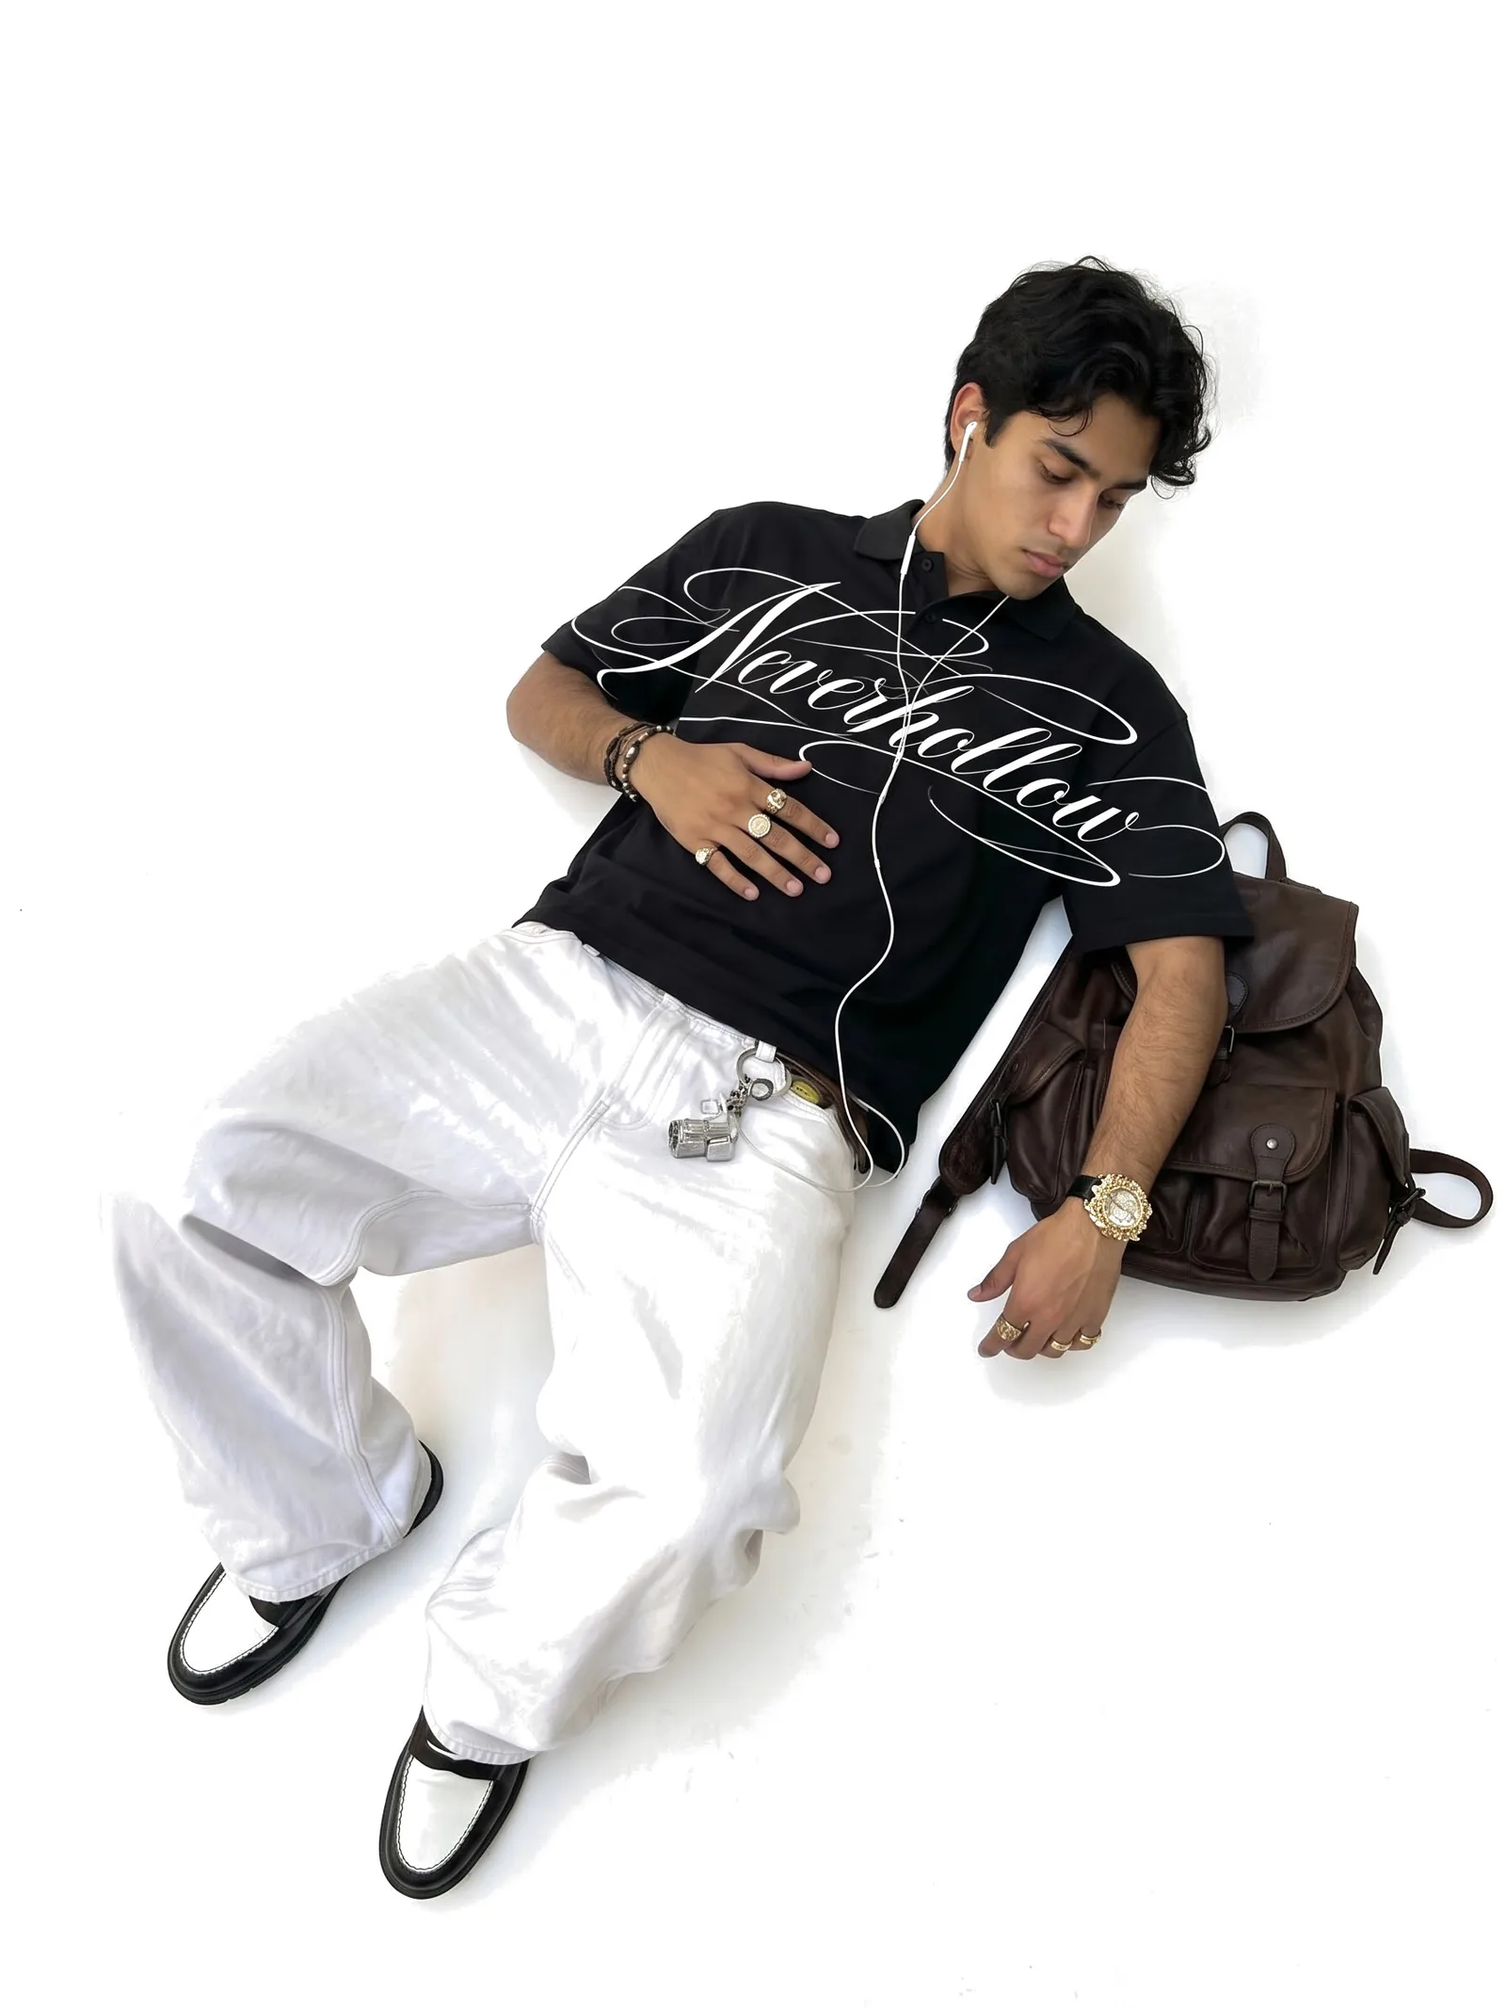
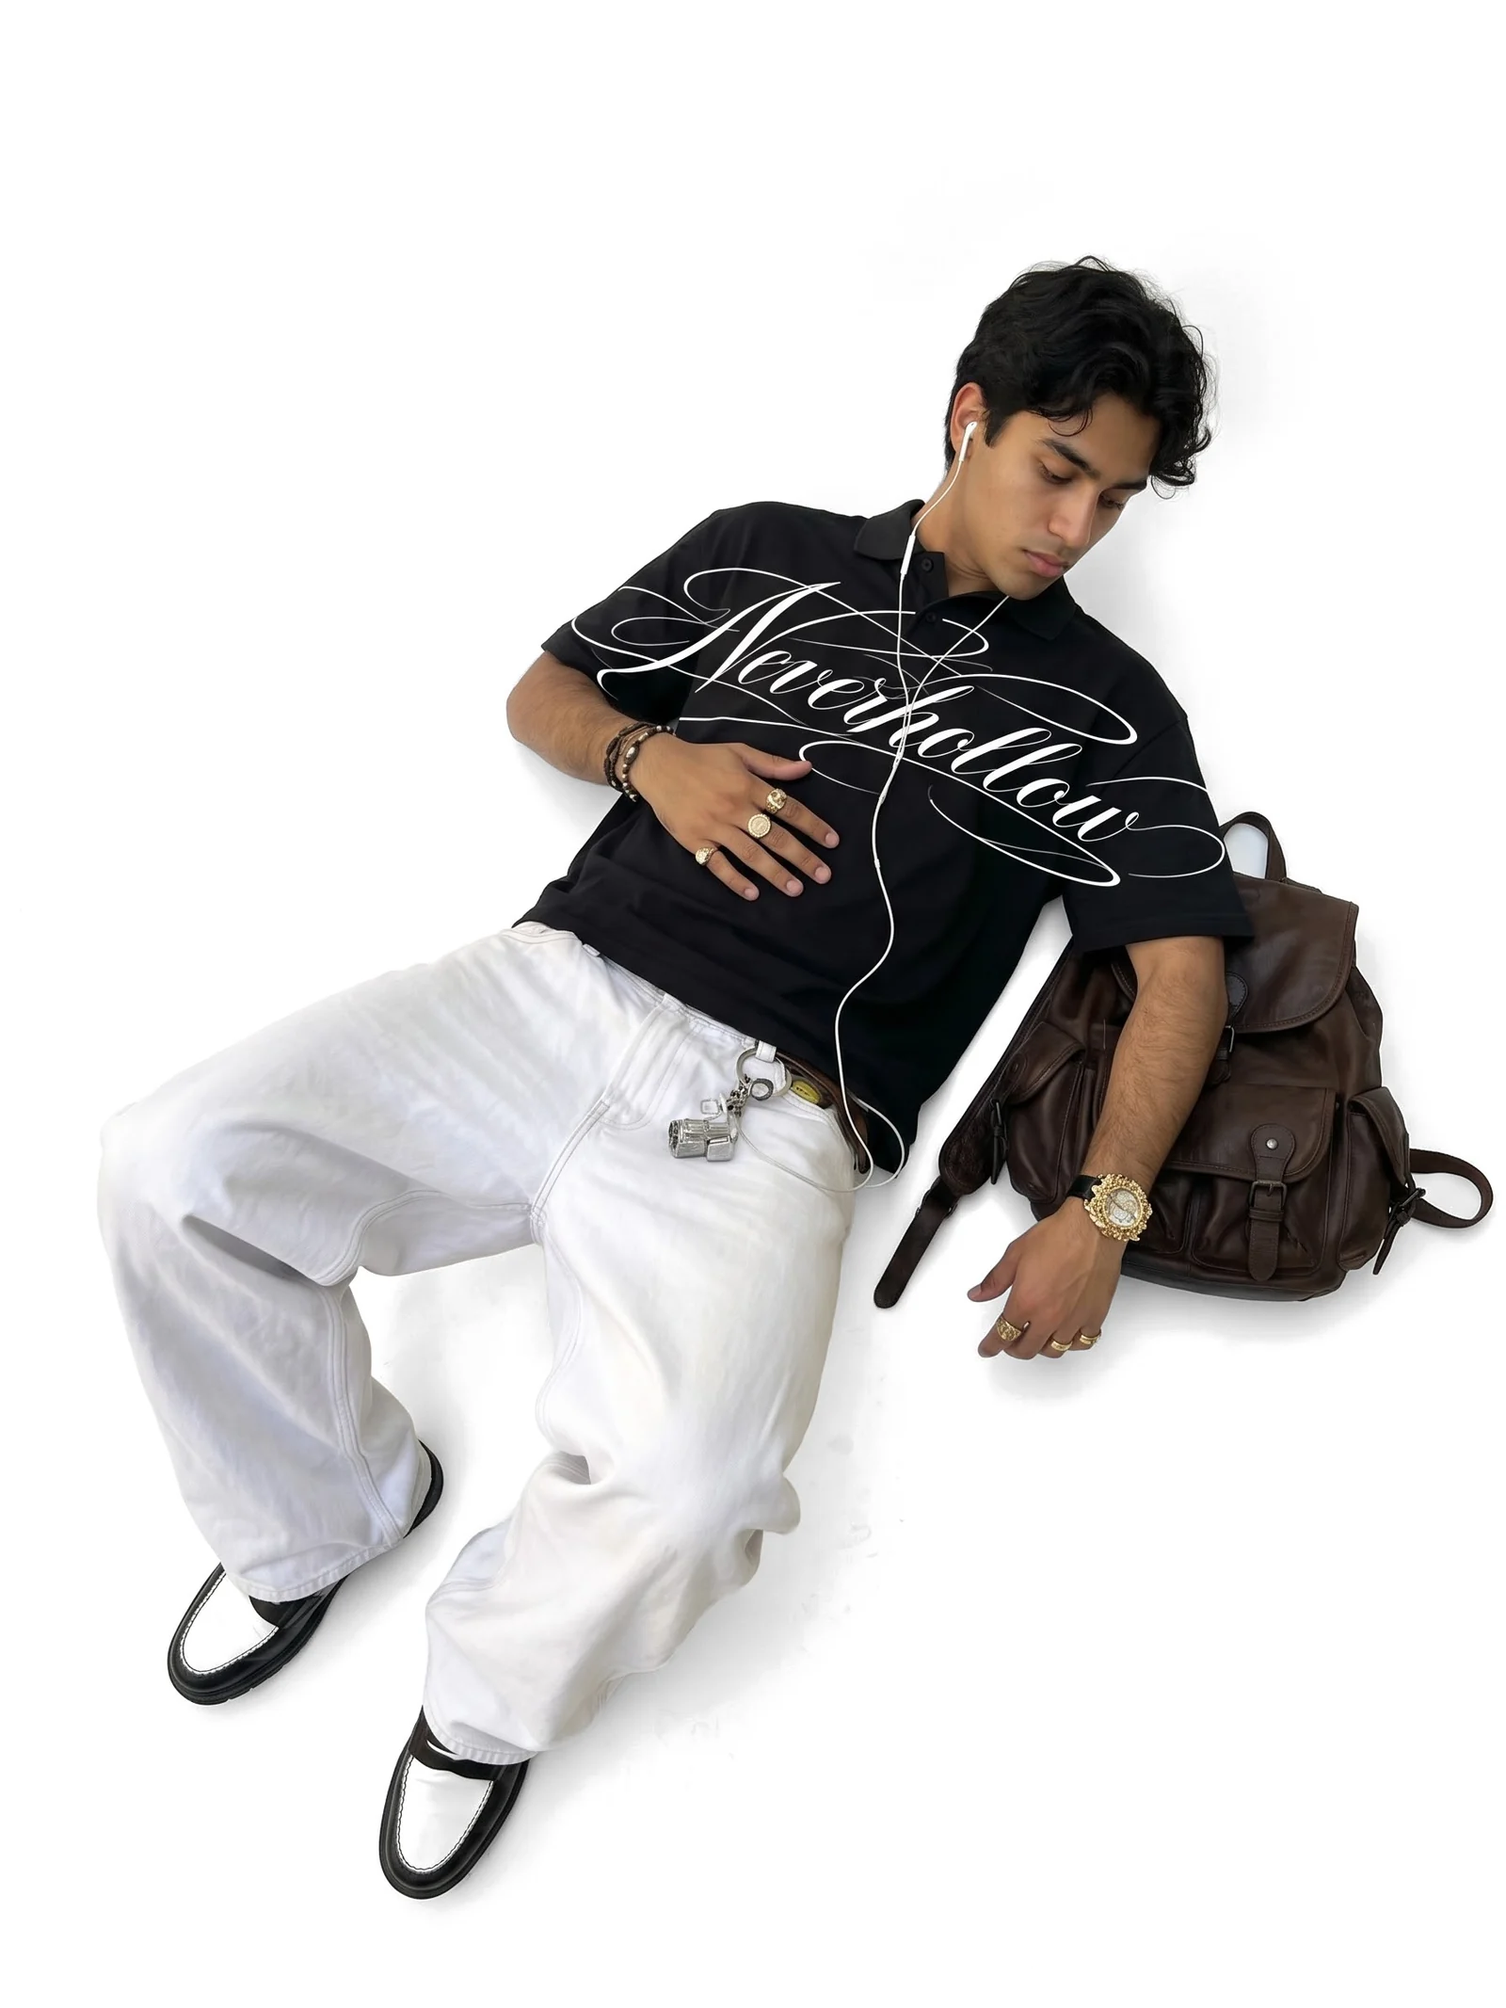
True-colour photos on white with hairline frames; Material and Men's/Women's sizing with fit note; strongest cover (Vesper, re-graded); cleaner cards; Chapel Shorts in the record
Claude-Session: https://claude.ai/code/session_01QScyZqKeqX7ZnCnb2t4eEm

diff --git a/shopify/theme/assets/base.css b/shopify/theme/assets/base.css
@@ -1,12 +1,13 @@
 /* NEVERHOLLOW — a white studio. Black and white only; the photos and the script do the talking.
    One family (Archivo, normal width), in sentence case: names, headings and links read like ordinary
-   words; small capitals are kept for short labels only. Photos sit on one light grey studio tile.
+   words; small capitals are kept for short labels only. Photos sit on white in a light hairline frame.
    Hairlines instead of borders. Spacing steps: 4 8 12 16 24 32 48 64 96 128. */
 :root {
   --white: #fff;
   --black: #000;
   --mist: #f4f4f4;           /* pressed and hover fills */
-  --tile: #f3f3f3;           /* the studio tile every photo sits on (white backdrops take this tone) */
+  --tile: #ffffff;           /* what every photo sits on: white, like the studio backdrop */
+  --band: #f6f6f6;           /* the one tinted band (sign-up) */
   --line: #e4e4e4;           /* hairlines between things */
   --line-mid: #cfcfcf;       /* outlines of size buttons and fields at rest */
   --grey: #636363;           /* secondary text on white, 6:1 */
@@ -174,10 +175,10 @@ textarea.field { height: auto; padding: 12px 14px; resize: vertical; }
 /* ── Panels ── */
 .frame { position: relative; overflow: hidden; background: var(--tile); display: block; }
 .frame .placeholder { width: 100%; height: 100%; fill: var(--mist); }
-/* Every photo sits on one light grey studio tile, so the pieces read as a set rather than floating on the page.
-   The photos have pure white backdrops; multiplied onto the tile, the backdrop takes the tile's tone and the
-   clothes, skin and shadows stay exactly as shot. */
-.card-img, .gallery-img, .cart-thumb img, .search-hit-img img, .mega-img img, .editorial-img, .cat-img, .spot-slide img, .spot-thumb img { mix-blend-mode: multiply; }
+/* Every product photo sits on white in a light hairline frame, so the pieces read as a set rather than floating
+   on the page. Photos are shown exactly as graded: nothing is blended over them, so blacks stay true black and
+   whites stay white. The frame is drawn on top, so it stays crisp while the photo zooms and takes no space. */
+.card-frame::after, .gallery-slide::after, .cart-thumb::after, .search-hit-img::after, .mega-img::after, .editorial-fig::after { content: ""; position: absolute; inset: 0; z-index: 1; pointer-events: none; box-shadow: inset 0 0 0 1px var(--line); }
 .slab { background: var(--black); color: var(--white); }
 .slab .muted { color: var(--grey-on-black); }
 .tag { position: absolute; left: 10px; top: 10px; z-index: 2; font-size: 0.625rem; font-weight: 500; text-transform: uppercase; letter-spacing: var(--track); line-height: 1; padding: 6px 7px 5px; background: rgb(255 255 255 / 0.92); color: var(--black); }
@@ -446,7 +447,7 @@ body.is-locked { overflow: hidden; }
 .spot-actions .muted { color: var(--black); font-size: 0.9375rem; }
 
 /* ── Newsletter ── */
-.newsletter { background: var(--tile); }
+.newsletter { background: var(--band); }
 .newsletter-inner { display: grid; gap: 24px; padding-top: 56px; padding-bottom: 56px; }
 @media (min-width: 64rem) { .newsletter-inner { grid-template-columns: minmax(0, 1fr) minmax(0, 460px); align-items: end; column-gap: 64px; padding-top: 72px; padding-bottom: 72px; } }
 .newsletter-title { font-size: clamp(1.5rem, 2.4vw, 2rem); }
@@ -473,7 +474,8 @@ body.is-locked { overflow: hidden; }
 .footer-label { margin-bottom: 14px; color: var(--grey); }
 .footer-col ul { display: grid; gap: 10px; font-size: 0.875rem; }
 .footer-col a { padding-bottom: 1px; }
-.footer-mark { padding-top: 8px; padding-bottom: 28px; }
+.footer-mark { padding-top: 8px; padding-bottom: 40px; display: flex; justify-content: center; }
+.footer-mark .footer-logo { display: block; width: min(100%, 640px); }
 .footer-mark .brand-wordmark { width: 100%; color: var(--black); }
 .footer-bottom { border-top: 1px solid var(--line); padding-top: 18px; padding-bottom: 26px; display: flex; flex-direction: column; gap: 14px; }
 @media (hover: hover) { .footer-bottom a:hover { text-decoration: underline; text-underline-offset: 3px; } }
@@ -775,7 +777,7 @@ main > .shopify-section:last-child > .rich { padding-bottom: 96px; }
 @keyframes vt-hold { to { transform: translateY(-10px); } }
 @keyframes vt-in { from { opacity: 0; transform: translateY(14px); } }
 .card-link.is-leaving .card-img--alt { opacity: 0 !important; transition: none !important; }
-.gallery-slide.has-trail { background: var(--tile) var(--trail) center / cover no-repeat; background-blend-mode: multiply; }
+.gallery-slide.has-trail { background: var(--tile) var(--trail) center / cover no-repeat; }
 
 /* ── Header tucks away while you read down, comes back the moment you scroll up ── */
 .site-top { transition: transform 0.55s var(--ease-out); }

diff --git a/shopify/make_csv.py b/shopify/make_csv.py
@@ -12,7 +12,7 @@ P = [
        colors=[("Obsidian", [(MEDIA+"feral-01-flat.jpg","Feral Zip Hoodie in Obsidian laid flat, with the Neverhollow script across the chest, gothic sleeve graphics and a leopard-lined hood"),
                              (MEDIA+"feral-02-front.jpg","A model in the Feral Zip Hoodie with the hood up and hands in the pocket, against a concrete wall"),
                              (MEDIA+"feral-03-back.jpg","The Feral Zip Hoodie from the back with the hood up: a plain back, with the sleeve graphic wrapping round the arm")])]),
-  dict(men=True, handle="spine-long-sleeve", title="Spine Long Sleeve", type="Tops", price="80.00", sizes=SIZES, size_name="Size",
+  dict(men=True, handle="spine-long-sleeve", title="Spine Long Sleeve", type="Tops", price="65.00", sizes=SIZES, size_name="Size",
        qty={"XS": 2, "S": 4, "M": 6, "L": 6, "XL": 4, "XXL": 3},
        desc=["A long sleeve tee with the Neverhollow script running vertically down the front.",
              "Obsidian is black with the script in white. Bone is white with the script in black."],
@@ -21,7 +21,7 @@ P = [
                              (MEDIA+"spine-02-studio.jpg","A model in the Spine Long Sleeve in Bone, standing, with the Neverhollow script running down the front"),
                              (MEDIA+"spine-03-seated.jpg","A model in the Spine Long Sleeve in Bone sitting on a white floor")]),
                ("Bone", [])]),
-  dict(men=True, handle="vesper-polo", title="Vesper Polo", type="Tops", price="85.00", sizes=["S", "M", "L", "XL"], size_name="Size",
+  dict(men=True, handle="vesper-polo", title="Vesper Polo", type="Tops", price="60.00", sizes=SIZES, size_name="Size",
        qty=None,
        desc=["A short sleeve polo with the Neverhollow script sweeping across the chest and onto the sleeve.",
              "Obsidian is black with the script in white. Bone is white with the script in black."],
@@ -30,21 +30,21 @@ P = [
                              (MEDIA+"vesper-02-standing.jpg","A model in the Vesper Polo in Obsidian with white jeans, against a white wall"),
                              (MEDIA+"vesper-03-lying.jpg","The Vesper Polo in Obsidian worn lying on a white floor, with the script across the chest")]),
                ("Bone", [])]),
-  dict(women=True, handle="veil-cropped-long-sleeve", title="Veil Cropped Long Sleeve", type="Tops", price="65.00", sizes=["S", "M", "L", "XL"], size_name="Size",
+  dict(women=True, handle="veil-cropped-long-sleeve", title="Veil Cropped Long Sleeve", type="Tops", price="40.00", sizes=SIZES, size_name="Size",
        qty=None,
        desc=["A cropped long sleeve with the Neverhollow script across the chest in white."],
        fit="Fitted and cropped above the waist, with a crew neck.",
        colors=[("Obsidian", [(MEDIA+"veil-01-flat.jpg","Veil Cropped Long Sleeve in Obsidian laid flat, with the Neverhollow script across the chest"),
                              (MEDIA+"veil-04-standing.jpg","A model in the Veil Cropped Long Sleeve, standing, with the Neverhollow script across the chest"),
                              (MEDIA+"veil-05-standing-back.jpg","The Veil Cropped Long Sleeve from the back: a plain back, cropped above the waist")])]),
-  dict(men=True, handle="relic-denim", title="Relic Denim", type="Bottoms", price="150.00", sizes=WAISTS, size_name="Waist",
+  dict(men=True, handle="relic-denim", title="Relic Denim", type="Bottoms", price="100.00", sizes=WAISTS, size_name="Waist",
        qty={"28": 4, "30": 9, "32": 13, "34": 12, "36": 8, "38": 4},
        desc=["Washed black denim with the Neverhollow script running down the left leg, faded whiskering and frayed hems."],
        fit="Wide, straight leg that stacks at the ankle.",
        colors=[("Ash", [(MEDIA+"relic-flat.jpg","Relic Denim in Ash laid flat, with the Neverhollow script running down the left leg"),
                         (MEDIA+"relic-02-studio.jpg","A model in Relic Denim, standing, with the Neverhollow script running down the leg"),
                         (MEDIA+"relic-03-seated.jpg","A model in Relic Denim sitting on a white floor, with the script running down the leg")])]),
-  dict(women=True, handle="halo-fitted-polo", title="Halo Fitted Polo", type="Tops", price="75.00", sizes=SIZES, size_name="Size",
+  dict(women=True, handle="halo-fitted-polo", title="Halo Fitted Polo", type="Tops", price="40.00", sizes=SIZES, size_name="Size",
        qty=None,
        desc=["A fitted short sleeve polo with the Neverhollow script sweeping across the chest.",
              "Obsidian is black with the script in white. Bone is white with the script in black."],
@@ -54,7 +54,7 @@ P = [
                              (MEDIA+"halo-03-lying.jpg","A model in the Halo Fitted Polo in Obsidian lying on a white rug"),
                              (MEDIA+"halo-04-back.jpg","The Halo Fitted Polo in Obsidian from the back")]),
                ("Bone", [])]),
-  dict(women=True, handle="requiem-sweatpants", title="Requiem Sweatpants", type="Bottoms", price="110.00", sizes=SIZES, size_name="Size",
+  dict(women=True, handle="requiem-sweatpants", title="Requiem Sweatpants", type="Bottoms", price="55.00", sizes=SIZES, size_name="Size",
        qty=None,
        desc=["Sweatpants with the Neverhollow script across the back.",
              "Obsidian is black with the script in white. Bone is white with the script in black."],
@@ -64,7 +64,7 @@ P = [
                              (MEDIA+"requiem-05-lying.jpg","A model in the Requiem Sweatpants in Obsidian lying on a white floor, with the script across the back"),
                              (MEDIA+"requiem-04-seated.jpg","A model in the Requiem Sweatpants in Obsidian sitting on a white floor")]),
                ("Bone", [])]),
-  dict(men=True, handle="sigil-hoodie", title="Sigil Hoodie", type="Hoodies", price="120.00", sizes=SIZES, size_name="Size",
+  dict(men=True, handle="sigil-hoodie", title="Sigil Hoodie", type="Hoodies", price="80.00", sizes=SIZES, size_name="Size",
        qty=None,
        desc=["A pullover hoodie with the NH monogram on the left chest and a plain back.",
              "Obsidian is black with the monogram in white."],
@@ -72,7 +72,7 @@ P = [
        colors=[("Obsidian", [(MEDIA+"sigil-01-flat.jpg","Sigil Hoodie in Obsidian laid flat, with the NH monogram on the left chest"),
                              (MEDIA+"sigil-02-standing.jpg","A model in the Sigil Hoodie in Obsidian, standing, with the NH monogram on the chest"),
                              (MEDIA+"sigil-03-back.jpg","The Sigil Hoodie in Obsidian from the back: a plain back")])]),
-  dict(women=True, handle="cathedral-dress", title="Cathedral Dress", type="Dresses", price="75.00", sizes=["XS", "S", "M", "L"], size_name="Size",
+  dict(women=True, handle="cathedral-dress", title="Cathedral Dress", type="Dresses", price="60.00", sizes=SIZES, size_name="Size",
        qty=None,
        desc=["A long sleeve mini dress with a gothic cross on the hip, the Neverhollow script running through it.",
              "Obsidian is black with the cross in white."],
@@ -80,7 +80,7 @@ P = [
        colors=[("Obsidian", [(MEDIA+"cathedral-01-flat.jpg","Cathedral Dress in Obsidian laid flat, with a gothic cross and the Neverhollow script on the hip"),
                              (MEDIA+"cathedral-02-seated.jpg","A model in the Cathedral Dress in Obsidian sitting on a white floor, the cross across her hip"),
                              (MEDIA+"cathedral-03-lying.jpg","A model in the Cathedral Dress in Obsidian lying on a white floor")])]),
-  dict(men=True, handle="psalm-henley", title="Psalm Henley", type="Tops", price="80.00", sizes=SIZES, size_name="Size",
+  dict(men=True, handle="psalm-henley", title="Psalm Henley", type="Tops", price="40.00", sizes=SIZES, size_name="Size",
        qty=None,
        desc=["A long sleeve henley with a two-button placket and the NH monogram on the left chest.",
              "Obsidian is black with the monogram in white. Bone is white with the monogram in black."],
@@ -89,7 +89,7 @@ P = [
                              (MEDIA+"psalm-02-front.jpg","A model in the Psalm Henley in Bone, with the NH monogram on the chest"),
                              (MEDIA+"psalm-03-back.jpg","The Psalm Henley in Bone from the back: a plain back")]),
                ("Bone", [])]),
-  dict(men=True, handle="scripture-sweatpants", title="Scripture Sweatpants", type="Bottoms", price="110.00", sizes=SIZES, size_name="Size",
+  dict(men=True, handle="scripture-sweatpants", title="Scripture Sweatpants", type="Bottoms", price="65.00", sizes=SIZES, size_name="Size",
        qty=None,
        desc=["Sweatpants with the Neverhollow script running down the left leg.",
              "Obsidian is black with the script in white."],
@@ -97,9 +97,18 @@ P = [
        colors=[("Obsidian", [(MEDIA+"scripture-01-flat.jpg","Scripture Sweatpants in Obsidian laid flat, with the Neverhollow script running down the left leg"),
                              (MEDIA+"scripture-02-front.jpg","A model in the Scripture Sweatpants in Obsidian, standing, with the script running down the leg"),
                              (MEDIA+"scripture-03-side.jpg","The Scripture Sweatpants in Obsidian from the side, with the script running down the leg")])]),
+  dict(men=True, handle="chapel-shorts", title="Chapel Shorts", type="Bottoms", price="50.00", sizes=SIZES, size_name="Size",
+       qty=None,
+       desc=["Fleece shorts with the NH monogram on the left leg and raw, frayed hems.",
+             "Obsidian is black with the monogram and drawstring in cream."],
+       fit="Relaxed and long, falling below the knee, with an elastic waistband, a drawstring and side pockets.",
+       colors=[("Obsidian", [(MEDIA+"chapel-01-flat.jpg","Chapel Shorts in Obsidian laid flat, with the NH monogram on the left leg and frayed hems"),
+                             (MEDIA+"chapel-02-front.jpg","A model in the Chapel Shorts in Obsidian, standing, with the NH monogram on the leg"),
+                             (MEDIA+"chapel-03-seated.jpg","A model in the Chapel Shorts in Obsidian lying on a white floor"),
+                             (MEDIA+"chapel-04-back.jpg","The Chapel Shorts in Obsidian from the back: a plain back")])]),
 ]
 # newest first (the shop's own order is set in the Drop 001 collection)
-ORDER = ["scripture-sweatpants", "psalm-henley", "cathedral-dress", "sigil-hoodie", "halo-fitted-polo", "requiem-sweatpants", "vesper-polo", "veil-cropped-long-sleeve", "spine-long-sleeve", "relic-denim"]  # feral-zip-hoodie archived
+ORDER = ["chapel-shorts", "scripture-sweatpants", "psalm-henley", "cathedral-dress", "sigil-hoodie", "halo-fitted-polo", "requiem-sweatpants", "vesper-polo", "veil-cropped-long-sleeve", "spine-long-sleeve", "relic-denim"]  # feral-zip-hoodie archived
 P = [p for h in ORDER for p in P if p["handle"] == h]
 H = ["Title","URL handle","Description","Vendor","Product category","Type","Tags","Published on online store","Status","SKU","Barcode",
      "Option1 name","Option1 value","Option1 LinkedTo","Option2 name","Option2 value","Option2 LinkedTo","Option3 name","Option3 value","Option3 LinkedTo",
